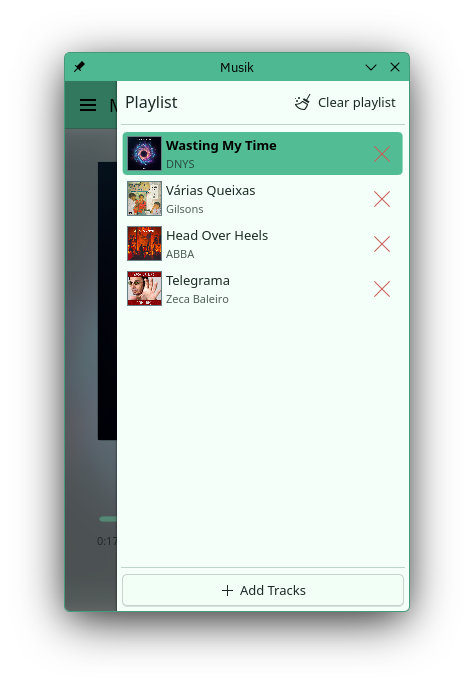
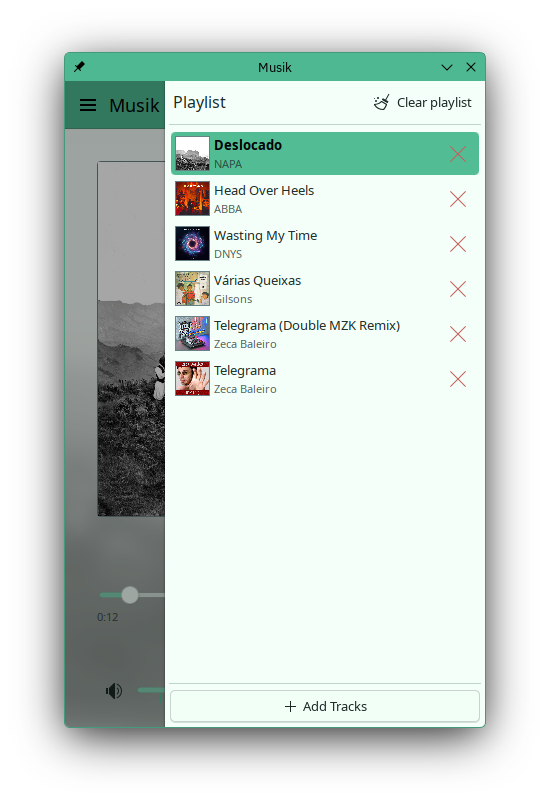
feat(KOD-136): Fix volume controls in noHeaderMode and improve About page (#5)
* refactor(mpris): update D-Bus service name to org.koderoots.musik

* chore(release): bump version to 0.1.1

* feat(app): add window icon and adjust layout sizes

* docs(screenshots): update UI screenshots to reflect new design

* fix(metainfo): update screenshot URLs to include versioned path

Changed region(s): [[0.0886, 0.061, 0.9156, 0.9462]]

diff --git a/src/qml/Main.qml b/src/qml/Main.qml
@@ -92,12 +92,12 @@ Kirigami.ApplicationWindow {
     }
 
     title: i18nc("@title:window", "Musik")
-    width: 344
-    height: (miniMode ? 240 : (Settings.showVolumeControls ? 570 : 530)) - (noHeaderMode ? 44 : 0)
-    minimumWidth: 344
-    maximumWidth: 344
-    minimumHeight: (miniMode ? 240 : (Settings.showVolumeControls ? 570 : 530)) - (noHeaderMode ? 44 : 0)
-    maximumHeight: (miniMode ? 240 : (Settings.showVolumeControls ? 570 : 530)) - (noHeaderMode ? 44 : 0)
+    width: 420
+    height: (miniMode ? 240 : (Settings.showVolumeControls ? 646 : 606)) - (noHeaderMode ? 44 : 0)
+    minimumWidth: 420
+    maximumWidth: 420
+    minimumHeight: (miniMode ? 240 : (Settings.showVolumeControls ? 646 : 606)) - (noHeaderMode ? 44 : 0)
+    maximumHeight: (miniMode ? 240 : (Settings.showVolumeControls ? 646 : 606)) - (noHeaderMode ? 44 : 0)
     flags: Settings.noHeaderMode ? (Qt.Window | Qt.FramelessWindowHint) : Qt.Window
 
     Controls.Menu {
@@ -129,8 +129,8 @@ Kirigami.ApplicationWindow {
             text: i18nc("@action", "Show volume controls")
             icon.name: "audio-volume-high"
             checkable: true
-            checked: Settings.showVolumeControls && !Settings.miniMode && !Settings.noHeaderMode
-            enabled: !Settings.miniMode && !Settings.noHeaderMode
+            checked: Settings.showVolumeControls && !Settings.miniMode
+            enabled: !Settings.miniMode
             onTriggered: Settings.showVolumeControls = checked
         }
 
@@ -333,6 +333,9 @@ Kirigami.ApplicationWindow {
     // Supported audio extensions for drag-and-drop validation
     readonly property var audioExtensions: [".mp3", ".flac", ".ogg", ".wav", ".m4a", ".aac", ".wma", ".opus"]
 
+    // True when the About page is open in the layer stack
+    readonly property bool aboutPageActive: pageStack.layers.depth > 1
+
     // Check if a file has a supported audio extension
     function isAudioFile(filePath) {
         var path = filePath.toString().toLowerCase();
@@ -426,11 +429,11 @@ Kirigami.ApplicationWindow {
         }
 
         onMetadataChanged: {
-            MprisController.title = audioPlayer.title
-            MprisController.artist = audioPlayer.artist
-            MprisController.album = audioPlayer.album
-            MprisController.albumArtUrl = audioPlayer.albumArtPath
-            MprisController.updateMetadata()
+            MprisController.title = audioPlayer.title;
+            MprisController.artist = audioPlayer.artist;
+            MprisController.album = audioPlayer.album;
+            MprisController.albumArtUrl = audioPlayer.albumArtPath;
+            MprisController.updateMetadata();
         }
     }
 
@@ -484,8 +487,8 @@ Kirigami.ApplicationWindow {
                 text: i18nc("@action", "Show volume controls")
                 icon.name: "audio-volume-high"
                 checkable: true
-                checked: Settings.showVolumeControls && !Settings.miniMode && !Settings.noHeaderMode
-                enabled: !Settings.miniMode && !Settings.noHeaderMode
+                checked: Settings.showVolumeControls && !Settings.miniMode
+                enabled: !Settings.miniMode
                 onToggled: Settings.showVolumeControls = checked
             },
             Kirigami.Action {
@@ -1111,8 +1114,8 @@ Kirigami.ApplicationWindow {
                 // Album Art Area
                 Item {
                     Layout.alignment: Qt.AlignHCenter
-                    Layout.preferredWidth: 280
-                    Layout.preferredHeight: 280
+                    Layout.preferredWidth: 356
+                    Layout.preferredHeight: 356
                     visible: !miniMode
 
                     Rectangle {

diff --git a/src/main.cpp b/src/main.cpp
@@ -1,4 +1,5 @@
 #include <QApplication>
+#include <QIcon>
 #include <KAboutData>
 #include <KIconTheme>
 #include <KLocalizedString>
@@ -17,7 +18,7 @@
 #include <QCoreApplication>
 
 #ifndef MUSIK_VERSION_STRING
-#define MUSIK_VERSION_STRING "0.1.0"
+#define MUSIK_VERSION_STRING "0.1.1"
 #endif
 
 int main(int argc, char *argv[])
@@ -45,6 +46,7 @@ int main(int argc, char *argv[])
         i18nc("NAME OF TRANSLATORS", "Your names"),
         i18nc("EMAIL OF TRANSLATORS", "Your emails"));
     KAboutData::setApplicationData(aboutData);
+    QApplication::setWindowIcon(QIcon::fromTheme(QStringLiteral("org.koderoots.musik")));
 
     QApplication::setApplicationName(aboutData.componentName());
     QApplication::setApplicationVersion(aboutData.version());

diff --git a/src/mpriscontroller.cpp b/src/mpriscontroller.cpp
@@ -8,7 +8,7 @@
 #include <QDBusMessage>
 #include <QTimer>
 
-static const QString MPRIS_SERVICE = QStringLiteral("org.mpris.MediaPlayer2.musik");
+static const QString MPRIS_SERVICE = QStringLiteral("org.mpris.MediaPlayer2.org.koderoots.musik");
 static const QString MPRIS_PATH = QStringLiteral("/org/mpris/MediaPlayer2");
 
 MprisController::MprisController(QObject *parent)
